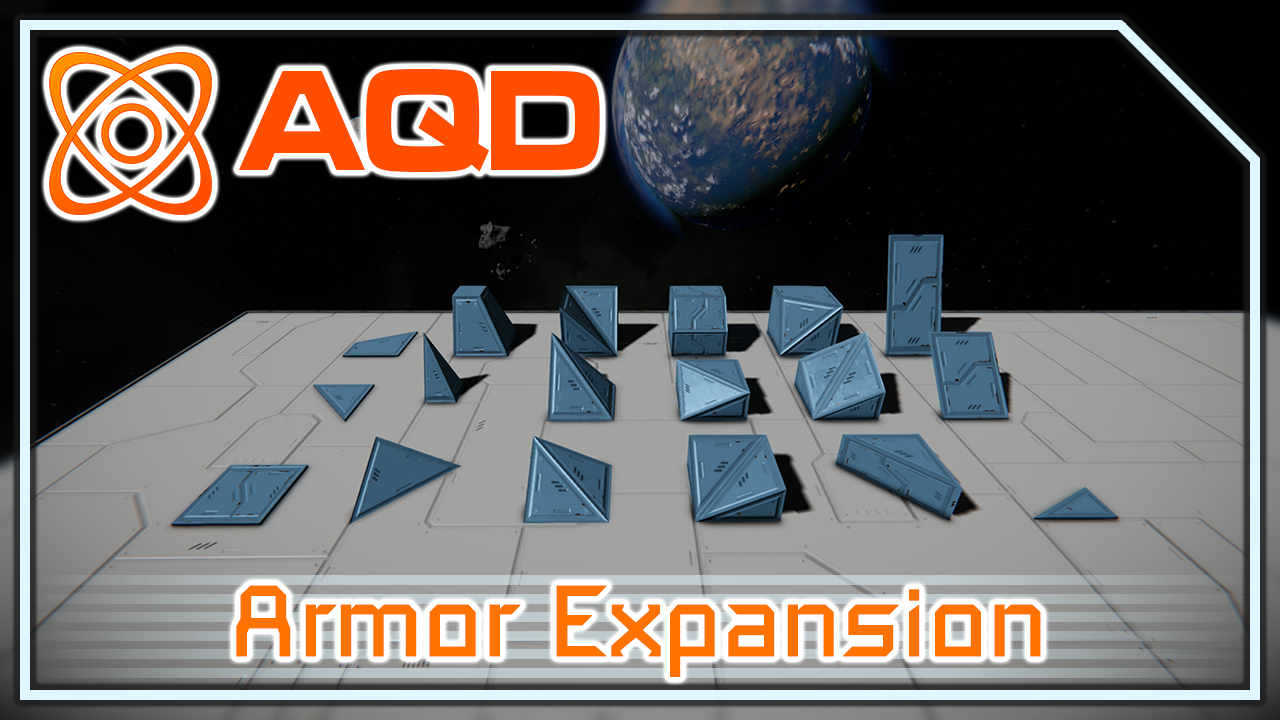
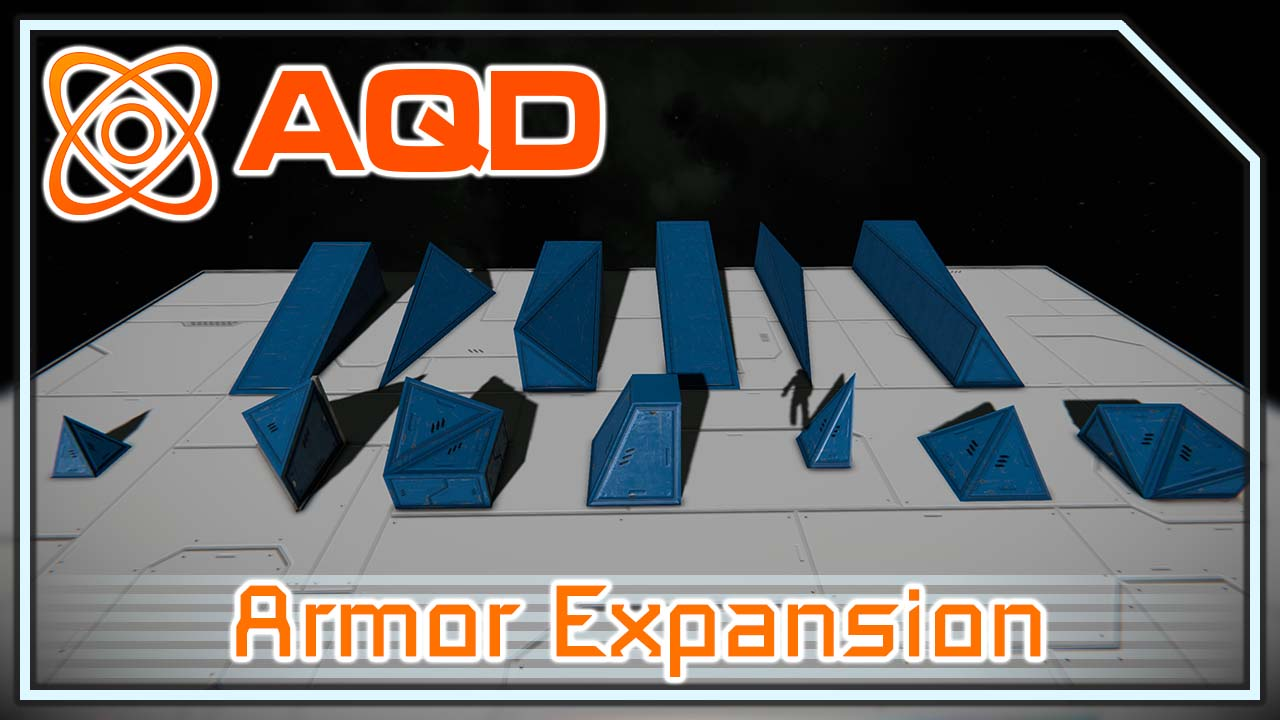
Armor Expansion 1.7 - Release bits

diff --git a/AQD - Armor Expansion/Content/description.md b/AQD - Armor Expansion/Content/description.md
@@ -14,7 +14,7 @@ This mod adds a number of new armor blocks to the game. They are all available i
 
 [img]https://i.imgur.com/5nbiNLV.png[/img]
 
-[h1]13 New Armor Blocks[/h1]
+[h1]16 New Armor Blocks[/h1]
 Available in large and small, as well as heavy and light variations. The blocks have been partially integrated into existing G-menu block groups where it made sense, or been added as part of new ones.
 [list]
 [*]Corner Split 2x1x1 Base
@@ -24,6 +24,9 @@ Available in large and small, as well as heavy and light variations. The blocks 
 [*]Slab Raised Corner Split
 [*]Slab Raised Corner Inset
 [*]Half Slab Corner Split
+[*]Slope Transition
+[*]Half Slope Transition
+[*]Slab Slope Transition
 [*]Slope 3x1
 [*]Slope 3x1 Corner
 [*]Slope 3x1 Inverted Corner
@@ -42,5 +45,4 @@ To my knowledge, most other armor block mods don't currently support armor skins
 [list]
 [*]I am [b]NOT[/b] taking requests for more armor shapes. There will always be more to add - and I will add more in the future - but I will never be able to add all of them. I'd rather focus on a small amount that is of high quality and as universally applicable as possible.
 [*]As it is not possible to add new deformation shapes to the game, and using the existing ones would not yield good results for some of these shapes, these blocks unfortunately do not support deformation.
-[*]Klime made an [url=https://steamcommunity.com/sharedfiles/filedetails/?id=2129594594]Armor Replacer[/url] mod, which allows the easy change from AQD blocks to their new vanilla counterparts.
 [/list]

diff --git a/AQD - Armor Expansion/Content/patch_notes.md b/AQD - Armor Expansion/Content/patch_notes.md
@@ -1,3 +1,7 @@
 [h1]Patch 1.7[/h1]
-[list][*]Removed all armor plates from the G menu since Keen implemented their own. The blocks are still ingame - and thus won't break any builds - but you won't be able to build more of them.
+[list]
+[*]Added Slope Transition, Half Slope Transition and Slab Slope Transition blocks.
+[*]Removed all armor plates from the G menu since Keen implemented their own. The blocks are still ingame - and thus won't break any builds - but you won't be able to build more of them.
+[*]Fix for mountpoints on Inverted Corner Split and Slab Corner Split being too large.
+[*]Swapped 3x1 and 4x1 slope blocks to use a slightly different texture. The creases will now stand out less and interact with some skins slightly differently.
 [/list]
